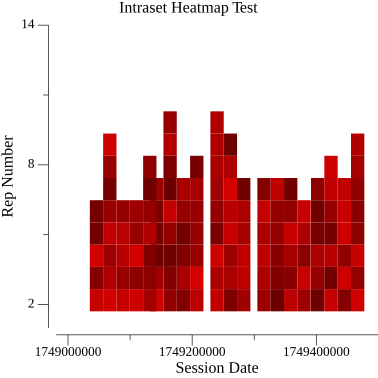
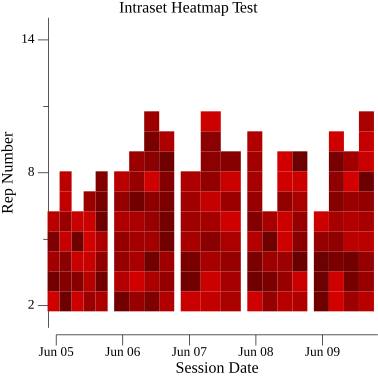
Refactor IntrasetHeatmap plotting logic and enhance test cases

diff --git a/intraset_heatmap/intraset_heatmap.go b/intraset_heatmap/intraset_heatmap.go
@@ -1,6 +1,12 @@
 package intraset_heatmap
 
-import "gonum.org/v1/plot/vg"
+import (
+	"math"
+	"time"
+
+	"gonum.org/v1/plot"
+	"gonum.org/v1/plot/vg"
+)
 
 //intraset heatmap displays color intensity for weight
 //n'th rep is displayed on the y axis
@@ -13,10 +19,10 @@ import "gonum.org/v1/plot/vg"
 
 type Sessioner interface {
 	GetSession(i int) *Session // GetSessions retrieves all sessions
-	Len() int                 // Len returns the number of sessions
+	Len() int                  // Len returns the number of sessions
 }
 
-type Sessions []*Session 
+type Sessions []*Session
 
 func (s Sessions) GetSession(i int) *Session {
 	if i < 0 || i >= len(s) {
@@ -38,21 +44,39 @@ func CopySessions(data Sessioner) Sessions { //TODO make dates in increasing ord
 }
 
 type IntrasetHeatmap struct {
+	TotalSetCount int // Total number of sets across all sessions
 	Sessions
-	 
+
 	ColumnWidth, MaxHeight, MinHeight vg.Length // Max and Min height for the vectoral height of each column
-	MaxReps, MinReps     int       // Max and Min reps across all sessions
+	MaxReps, MinReps                  int       // Max and Min reps across all sessions
 
 }
 
-func NewIntrasetHeatmap( data Sessioner, columnWidth,minHeight, maxHeight vg.Length) *IntrasetHeatmap {
+
+
+func (i *IntrasetHeatmap) GenerateXTickers(min, max float64) []plot.Tick {
+	const layout = "Jan 02"
+	var ticks []plot.Tick
+	const interval = float64(24 * time.Hour / time.Second)
+	for t := math.Ceil(min/interval) * interval; t <= max; t += interval {
+		ticks = append(ticks, plot.Tick{
+			Value: t,
+			Label: time.Unix(int64(t), 0).Format(layout),
+		})
+	}
+	return ticks
+}
+
+func NewIntrasetHeatmap(data Sessioner, columnWidth, minHeight, maxHeight vg.Length) *IntrasetHeatmap {
 	cpy := CopySessions(data)
 	maxReps := 0
 	minReps := 0
+	TotalSetCount := 0
 	for _, session := range cpy { // Iterate through each session to find max and min reps
 		if len(session.Sets) == 0 {
 			continue // Skip empty sessions
 		}
+		TotalSetCount += len(session.Sets) // Count total sets
 		for _, set := range session.Sets {
 			if len(set.Reps) == 0 {
 				continue // Skip empty sets
@@ -63,11 +87,12 @@ func NewIntrasetHeatmap( data Sessioner, columnWidth,minHeight, maxHeight vg.Len
 
 	}
 	return &IntrasetHeatmap{
-		Sessions:  cpy,
-		MaxHeight: maxHeight,
-		MinHeight: minHeight,
-		MaxReps:   maxReps,
-		MinReps:   minReps,
-		ColumnWidth: columnWidth,
+		Sessions:      cpy,
+		MaxHeight:     maxHeight,
+		MinHeight:     minHeight,
+		MaxReps:       maxReps,
+		MinReps:       minReps,
+		ColumnWidth:   columnWidth,
+		TotalSetCount: TotalSetCount,
 	}
 }

diff --git a/intraset_heatmap/plot.go b/intraset_heatmap/plot.go
@@ -11,15 +11,28 @@ import (
 func (i *IntrasetHeatmap) Plot(c draw.Canvas, plt *plot.Plot) { //TODO dynamically calculated col width given a max session col size
 
 	trX, _ := plt.Transforms(&c)
-	for _, session := range i.Sessions { 
-		sessionDateUnix := float64(session.Date.Unix())
+
+	//calculate the total width of the plot
+	nSession := i.Len()
+
+	totalWidthWithoutSessionSpacing := c.Size().X
+	fmt.Printf("canvas size is %f, total width without session spacing is %f\n", c.Size().X, totalWidthWithoutSessionSpacing)
+
+	perSessionWidth := (totalWidthWithoutSessionSpacing - vg.Length((nSession-1)*4)) / vg.Length(nSession)
+
+	for _, session := range i.Sessions {
 		setCount := len(session.Sets)
 
+		sessionSetColWidth := perSessionWidth / vg.Length(setCount)
+		sessionDateUnix := float64(session.Date.Unix())
+		//margin := ((totalWidth/ vg.Length(nSession)) - sessionSetColWidth)/2
+
+		sessionDateString := session.Date.Format("2006-01-02")
+		fmt.Printf("Plotting session on %s \n", sessionDateString)
 		colx := trX(sessionDateUnix)
-		offset := i.ColumnWidth * vg.Length(setCount) / 2
-		x := colx - offset // Center the first set of the session
+		offset := sessionSetColWidth * vg.Length(setCount) / 2
+		x := colx - offset // bottom left corner of the first set in the session
 		for _, set := range session.Sets {
-			x += i.ColumnWidth // Move to the next set's x position
 			fmt.Printf("Plotting set %d for session on %s at x: %f\n", set.SetNo, session.Date, x)
 
 			for _, rep := range set.Reps {
@@ -30,7 +43,7 @@ func (i *IntrasetHeatmap) Plot(c draw.Canvas, plt *plot.Plot) { //TODO dynamical
 						Y: i.height(rep.RepNo), // Height for each rep
 					},
 					Max: vg.Point{
-						X: x + i.ColumnWidth,
+						X: x + sessionSetColWidth,
 						Y: i.height(rep.RepNo + 1), // Height for each rep
 					}}
 				p := rect.Path()
@@ -39,6 +52,7 @@ func (i *IntrasetHeatmap) Plot(c draw.Canvas, plt *plot.Plot) { //TODO dynamical
 				c.Fill(p) // Fill the rectangle with the color
 
 			}
+			x += sessionSetColWidth // Move to the next set's x position
 
 		}
 	}

diff --git a/intraset_heatmap/intraset_heatmap_test.go b/intraset_heatmap/intraset_heatmap_test.go
@@ -25,10 +25,17 @@ func TestIntrasetHeatmap(t *testing.T) {
 
 	heatmap := intraset_heatmap.NewIntrasetHeatmap(data, vg.Points(10), vg.Points(50), vg.Points(200))
 
-	p.Add(heatmap)
+	
 
-	p.X.Max = float64(time.Now().AddDate(0, 0, 1).Unix())  // Set max x to 5 days ago
-	p.X.Min = float64(time.Now().AddDate(0, 0, -5).Unix()) // Set min x to 5 days ago
+	p.Add(heatmap)
+	start := time.Now().AddDate(0, 0, -4).Truncate(24 * time.Hour) // Start 4 days ago, at midnight
+	end := time.Now().AddDate(0, 0, 1).Truncate(20 * time.Hour) // End today, at midnight
+
+	p.X.Tick.Marker = plot.TickerFunc( heatmap.GenerateXTickers)
+
+	p.X.Max =  float64(end.Unix())  // Set max x to 5 days ago
+	p.X.Min = float64(start.Unix()) // Set min x to 5 days ago
+	
 	p.Y.Max = float64(heatmap.MaxReps + 5)
 	p.Y.Min = 1
 
